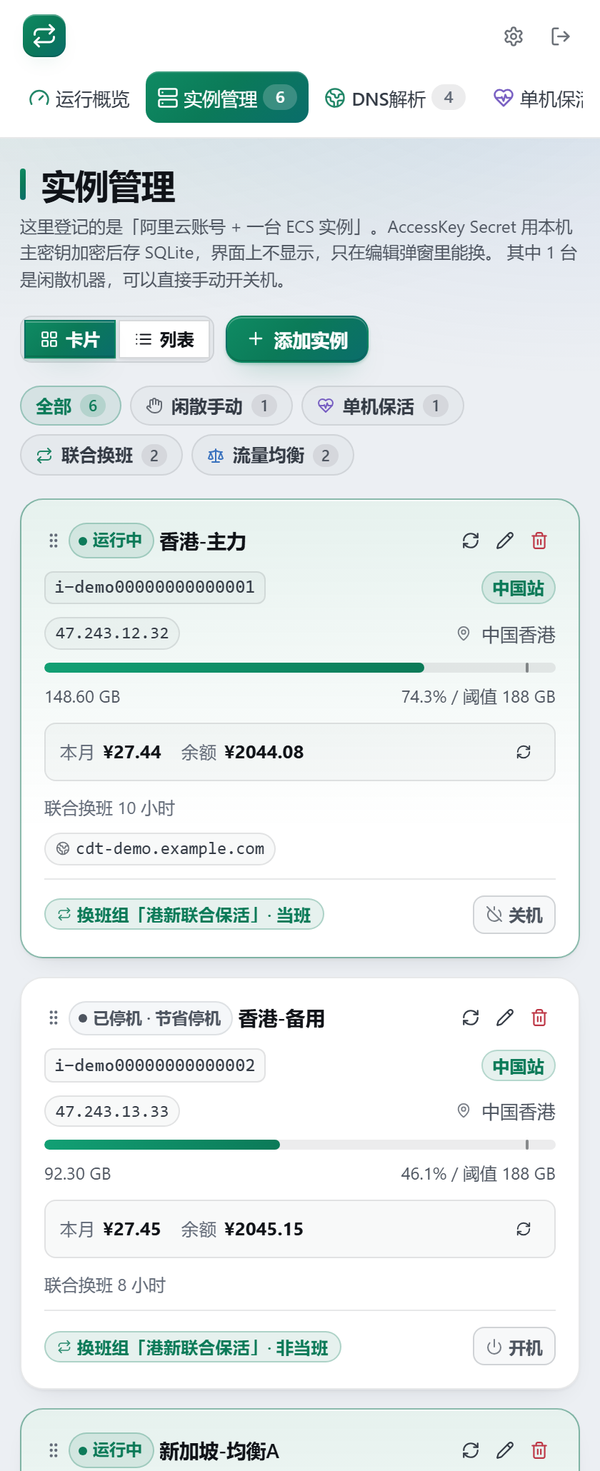
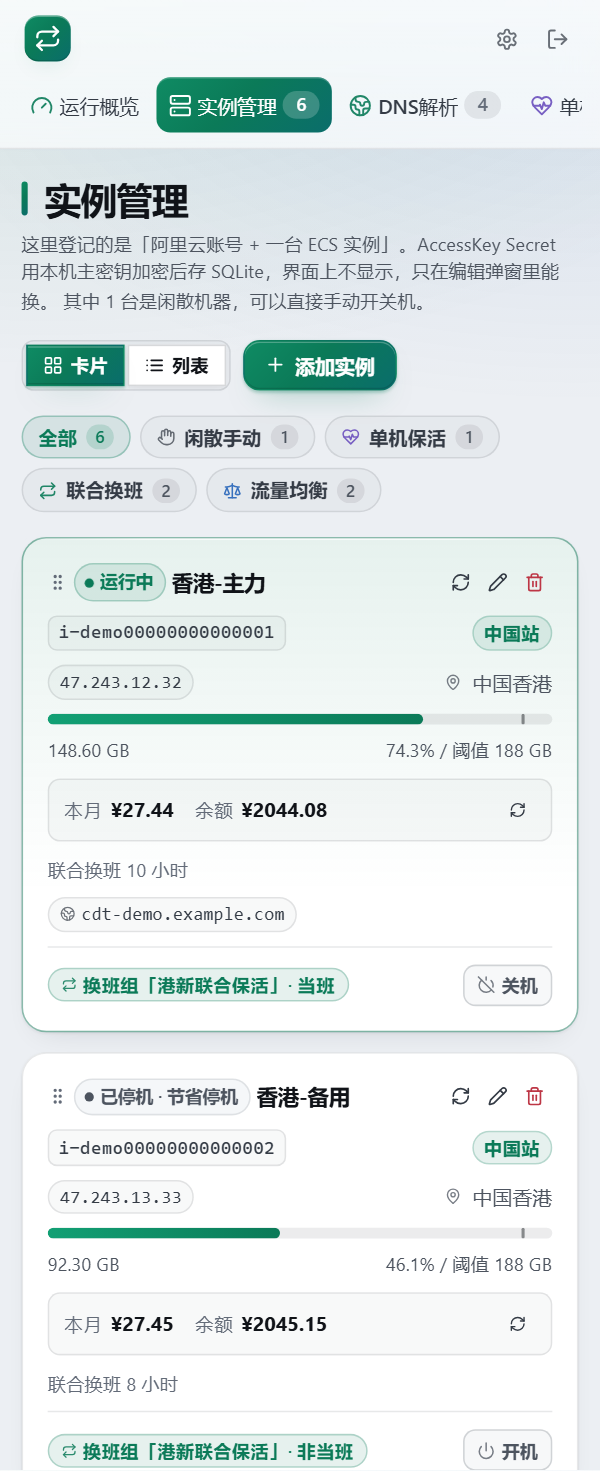
fix(web): 手机端顶栏恢复半透明玻璃，重拍手机端截图

diff --git a/web/src/layout.css b/web/src/layout.css
@@ -412,11 +412,20 @@
        设置/退出图标也会停在半空中而不是贴到屏幕右边 */
     align-self: stretch;
     width: 100%;
-    /* 顶栏 sticky 全宽，blur(20px) 每帧都要重算整条背景：低端安卓滚动/点击时
-       会掉帧，边缘还会闪方块状残影。手机上直接换成实色，不再做玻璃 */
+    /* 顶栏保留玻璃：背景的环境光晕要能透到 Logo 行和导航行后面，
+       否则顶栏就是一块死白的板子，跟页面底色断开（v1.8.0 之前的观感）。
+       白度压到 82%→68%：比桌面（58%→26%）浓得多，滚动时下方卡片只透出一层
+       模糊的影子，不会糊穿文字；blur 也从 20px 降到 14px，整条顶栏每帧重算的
+       面积比桌面小，低端机不至于像 20px 那样掉帧、边缘闪方块。
+       上一行纯色是给不支持 color-mix 的浏览器兜底（Chrome < 111）。 */
     background: var(--panel-solid);
-    backdrop-filter: none;
-    -webkit-backdrop-filter: none;
+    background: linear-gradient(
+      180deg,
+      color-mix(in srgb, var(--panel-solid) 82%, transparent),
+      color-mix(in srgb, var(--panel-solid) 68%, transparent)
+    );
+    backdrop-filter: blur(14px) saturate(1.4);
+    -webkit-backdrop-filter: blur(14px) saturate(1.4);
   }
 
   .sidebar::after {
